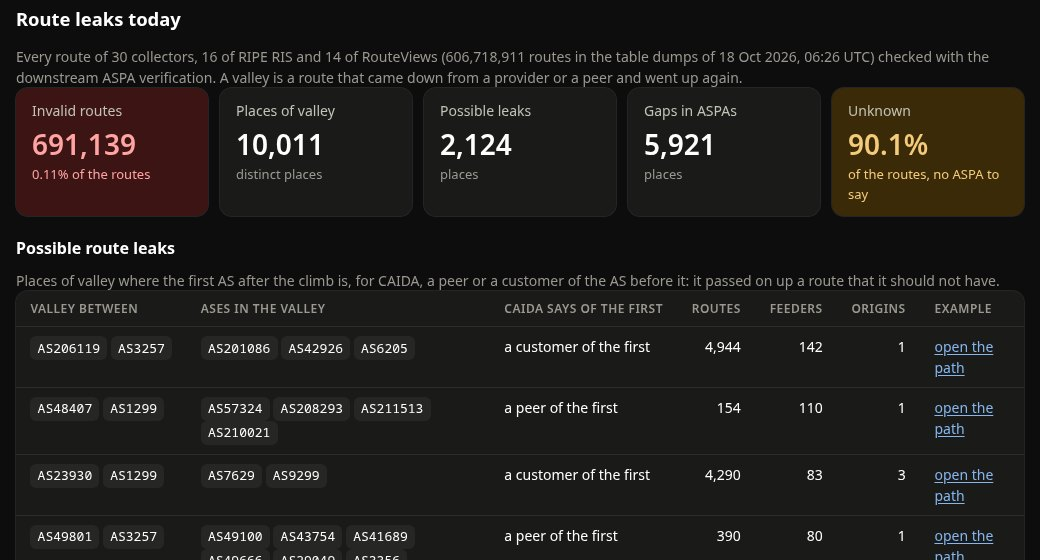
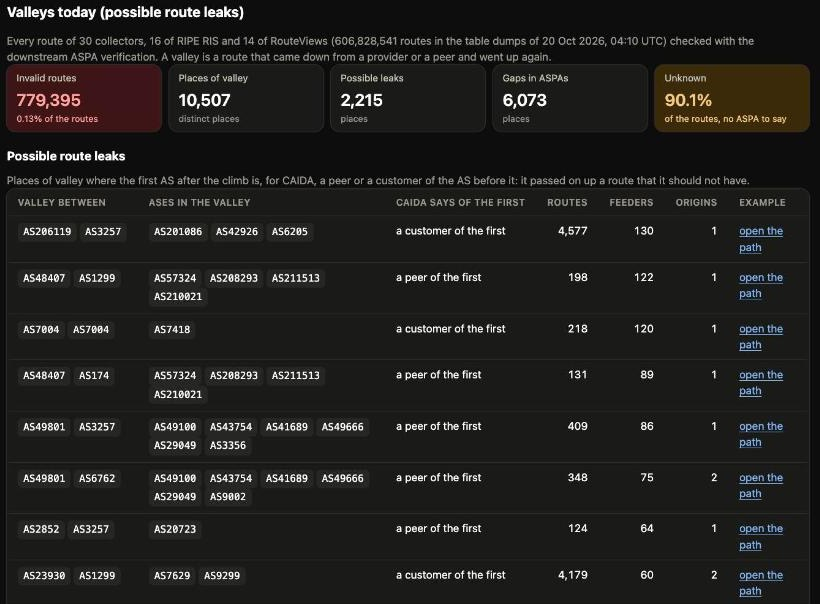
README: screenshots and text for the why? button and the neighbours read against the registry

diff --git a/README.md b/README.md
@@ -62,7 +62,10 @@
     <td align="center"><sub>Examples with a checker, and the status page</sub></td>
   </tr>
   <tr>
-    <td colspan="2" align="center"><img src="assets/screenshots/evidence-dark.jpg" width="60%" alt="The neighbours of AS12779 in the routes seen in BGP: which are in its ASPA, which look like providers from the routes, and the note that AS60798 seems to be a provider its ASPA does not list"><br><sub>Neighbours of an origin: the evidence of who its providers are</sub></td>
+    <td colspan="2" align="center"><img src="assets/screenshots/neighbours-dark.jpg" width="60%" alt="The neighbours of AS41327 in the routes seen in BGP, after the button that reads the registry: which are confirmed as providers by its IRR object and CAIDA, and which are not listed in its ASPA and are declared as peers"><br><sub>Neighbours of an origin, read against its IRR object and CAIDA: confirmed, probably missing, or declared as something else</sub></td>
+  </tr>
+  <tr>
+    <td colspan="2" align="center"><img src="assets/screenshots/valley-why-dark.jpg" width="60%" alt="The table of valleys seen now for AS41327, with the why? button opened on one place: the reading says possibly a gap in an ASPA, who to ask, and the hops with what the ASPAs, the IRR objects and CAIDA say"><br><sub>Valleys seen now: <i>why?</i> reads the registry, CAIDA and RIPEstat for the hops the ASPAs refuse</sub></td>
   </tr>
   <tr>
     <td width="50%"><img src="assets/screenshots/graph-dark.jpg" alt="The neighbourhood graph of AS12779: the providers of its ASPA above, the ASes that name it below, and on the right the neighbours that the routes show, with AS60798 marked as a likely provider"></td>
@@ -166,8 +169,8 @@ The validator is a [Routinator](https://github.com/NLnetLabs/routinator) instanc
   - *the age of the snapshot*: RIPEstat reads the collectors from time to time, so the page says how long ago the routes were read, warns when that is more than an hour, and a button compares the shortest 24 prefixes with the looking glass of the RIPE RIS (the present state): which are no longer announced by an origin, which have a new one;
   - *origin validation*: every prefix and origin checked against the ROAs of the validator (valid, not found, invalid with the reason), asked of the page's own server;
   - *the AS paths* checked with the downstream procedure (valid, unknown, invalid);
-  - *valleys* (possible route leaks): the places that the ASPAs prove, grouped by place, with the feeders that see them;
-  - *the neighbours of the origin*, with an evidence column that says which of them look like its providers because its routes go on through them to a Tier-1 network, and which of them its ASPA does not list;
+  - *valleys* (possible route leaks): the places that the ASPAs prove, grouped by place, with the feeders that see them, and a *why?* button that reads the IRR objects, CAIDA and RIPEstat for the hops that the ASPAs refuse and says whether the valley is probably a gap in an ASPA, with the evidence and who to ask (a reading, not a verdict);
+  - *the neighbours of the origin*, with an evidence column that says which of them look like its providers because its routes go on through them to a Tier-1 network, and which of them its ASPA does not list; a button reads the IRR object of the origin and CAIDA and marks each neighbour as confirmed, probably or maybe missing from the ASPA, or declared as something else;
   - *tromboning*: a traceroute from twelve probes in the country of the origin (Globalping), with the median round trip and a row for each probe, to tell a route that goes far away (100 ms or more inside a country) from a normal one.
 
   Evidence and tromboning are readings, with their limits stated in the page, not verdicts.
